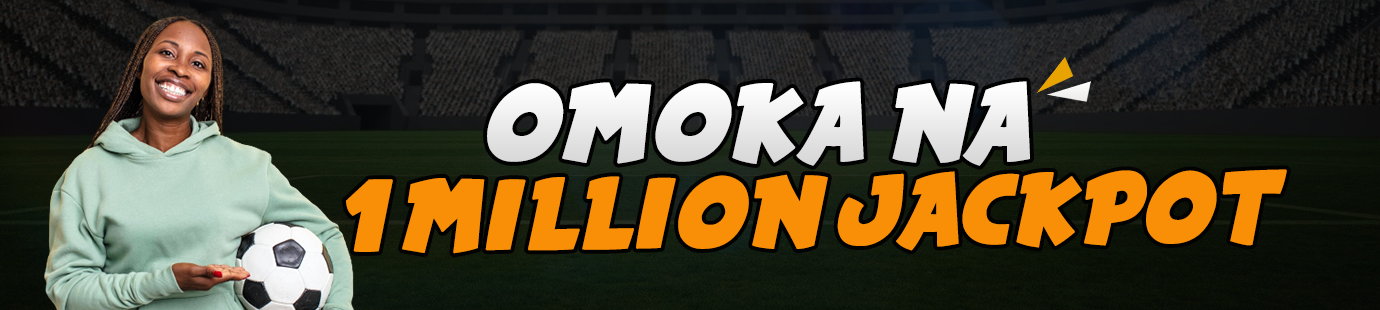
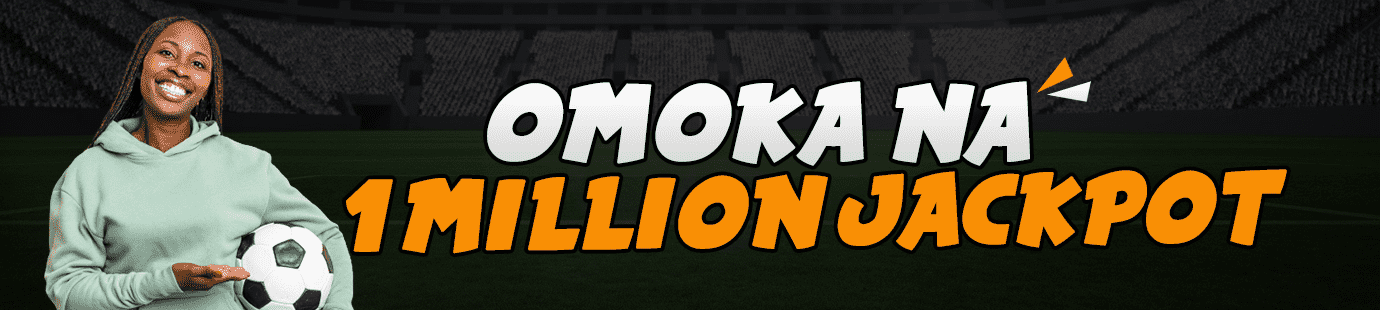
Added homepage sliders

diff --git a/src/components/carousel/index.js b/src/components/carousel/index.js
@@ -5,17 +5,19 @@ import 'react-lazy-load-image-component/src/effects/blur.css';
 
 // import banner1  from '../../assets/img/banner/banner001.jpeg';
 
-import banner1 from '../../assets/img/banner/homepage/KARIBU.png';
-import banner6 from '../../assets/img/banner/homepage/REGISTER.png';
-import banner2 from '../../assets/img/banner/homepage/50Bob.png';
-import banner3 from '../../assets/img/banner/homepage/CASHBACK.png';
-import banner4 from '../../assets/img/banner/homepage/DEPOSIT BONUS.png';
-import banner5 from '../../assets//img/banner/homepage/JACKPOT.png';
-import banner7 from '../../assets/img/banner/homepage/MASTER.png';
-import banner8 from '../../assets/img/banner/homepage/ODDS.png';
+
+// import banner6 from '../../assets/img/banner/homepage/REGISTER.png';
+// import banner3 from '../../assets/img/banner/homepage/CASHBACK.png';
+// import banner4 from '../../assets/img/banner/homepage/DEPOSIT BONUS.png';
+
+import banner2 from '../../assets/img/banner/homepage/virtuals.jpg';
+import banner1 from '../../assets/img/banner/homepage/karibu.png';
+import banner5 from '../../assets/img/banner/homepage/FREEBET.png';
+import banner7 from '../../assets/img/banner/homepage/ChezaLive.png';
+import banner8 from '../../assets/img/banner/homepage/BEST ODDS.png';
 
 const banners = [
-    banner1, banner2, banner3, banner4, banner5, banner6, banner7, banner8
+    banner1, banner2, banner5, banner7, banner8
 ]
 
 const CarouselLoader = (props) => {
